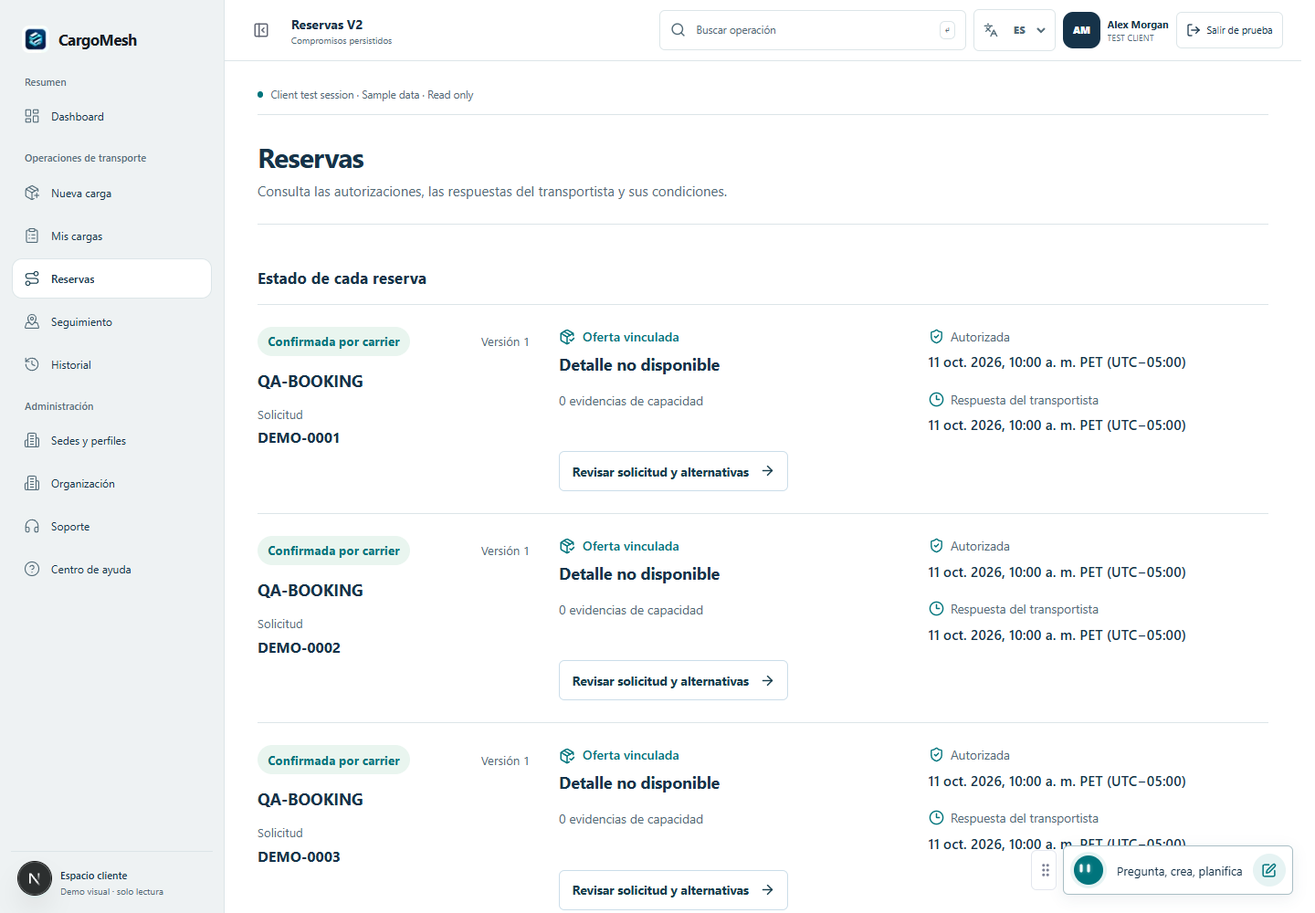
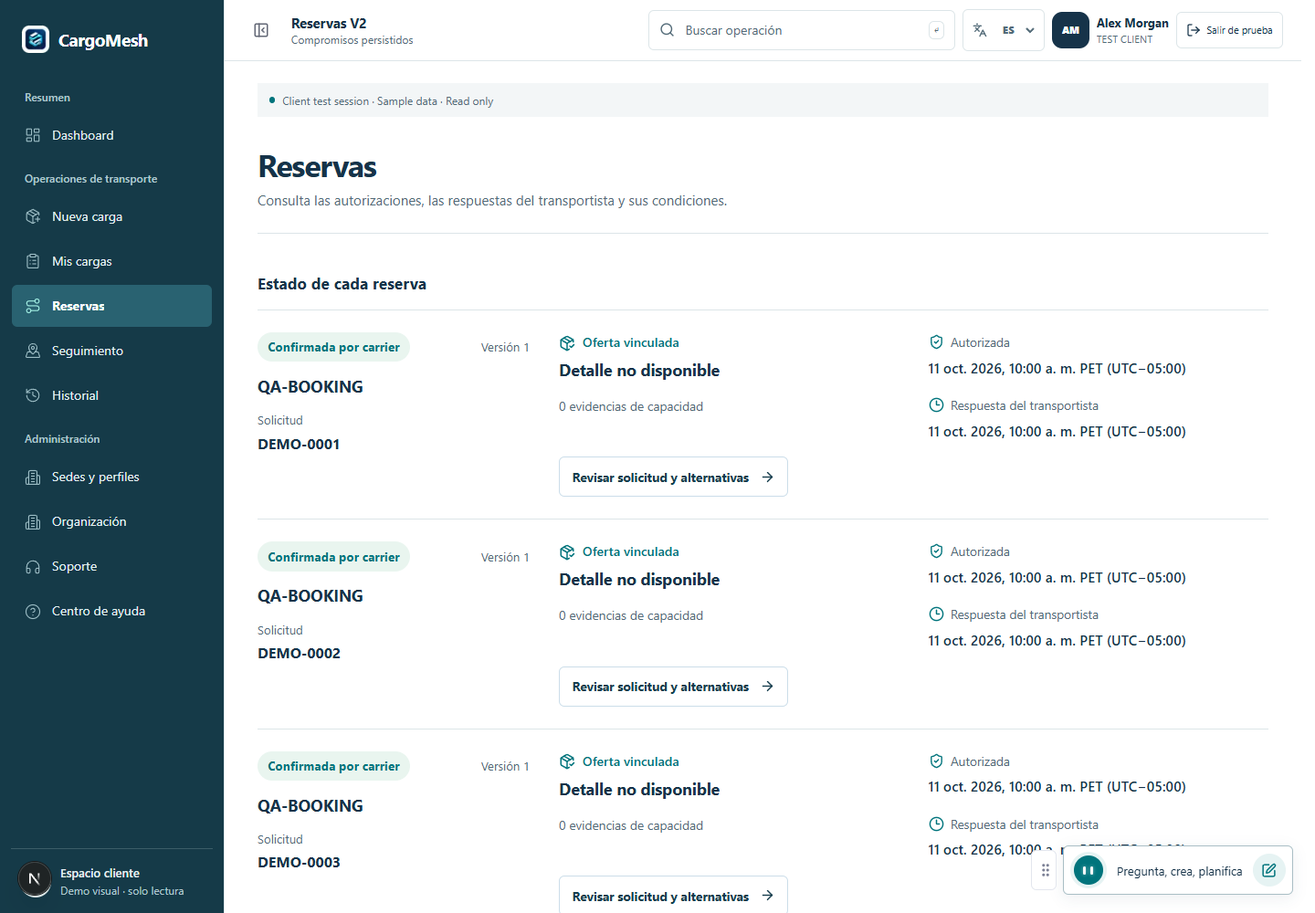
refine(client): strengthen navigation hierarchy and responsive layouts

diff --git a/cargomesh/src/features/shipper-portal/shipper-portal.module.css b/cargomesh/src/features/shipper-portal/shipper-portal.module.css
@@ -1,10 +1,10 @@
-.page { display: grid; min-width: 0; width: 100%; max-width: 100rem; gap: 1.75rem; margin: 0 auto; color: var(--cm-color-ink); }
+.page { display: grid; min-width: 0; width: 100%; max-width: 80rem; gap: 1.5rem; margin: 0 auto; color: var(--cm-color-ink); }
 .page :is(a, button, input, select, summary):focus-visible { outline: 3px solid var(--cm-color-focus); outline-offset: 3px; }
 .page :is(input, textarea) { caret-color: var(--cm-color-logistics); }
 .hero { display: flex; align-items: center; justify-content: space-between; gap: 1.25rem; padding: .25rem 0 1.5rem; border-bottom: 1px solid var(--cm-color-line); }
 .heroCopy { display: grid; min-width: 0; gap: .38rem; }
 .eyebrow { color: var(--cm-color-logistics); font-size: .72rem; font-weight: 850; letter-spacing: .12em; text-transform: uppercase; }
-.hero h1 { margin: 0; overflow-wrap: anywhere; color: var(--cm-color-heading); font-size: 1.9rem; line-height: 1.2; letter-spacing: -.035em; }
+.hero h1 { margin: 0; overflow-wrap: anywhere; color: var(--cm-color-heading); font-size: 2.125rem; font-weight: 700; line-height: 1.2; letter-spacing: -.035em; }
 .hero p { max-width: 49rem; margin: 0; color: var(--cm-color-muted); font-size: .94rem; line-height: 1.6; }
 .heroActions { display: flex; flex-wrap: wrap; gap: .6rem; }
 .primary, .secondary { display: inline-flex; min-height: 2.75rem; align-items: center; justify-content: center; gap: .48rem; border-radius: var(--cm-radius-md); padding: .62rem .95rem; font-size: .82rem; font-weight: 650; text-decoration: none; transition: background .18s ease, border-color .18s ease; }
@@ -12,7 +12,7 @@
 .primary:hover { background: var(--cm-color-primary-hover); }
 .secondary { border: 1px solid var(--cm-color-line); background: var(--cm-color-surface); color: var(--cm-color-primary); }
 .secondary:hover { border-color: var(--cm-color-line-strong); background: var(--cm-color-surface-subtle); }
-.metrics { display: grid; grid-template-columns: repeat(2, minmax(0, 1fr)); gap: 0; padding-bottom: 1.5rem; border-bottom: 1px solid var(--cm-color-line); }
+.metrics { display: grid; grid-template-columns: repeat(2, minmax(0, 1fr)); gap: 0; padding: 1.25rem; border-block: 1px solid var(--cm-color-line); background: var(--cm-color-surface-tint); }
 .metric { display: flex; align-items: flex-start; gap: .75rem; min-width: 0; padding: .25rem 1.5rem; border-left: 1px solid var(--cm-color-line); }
 .metric:first-child { padding-left: 0; border-left: 0; }
 .metricIcon { display: flex; margin-top: .4rem; color: var(--cm-color-logistics); }
@@ -23,19 +23,19 @@
 .panel { min-width: 0; }
 .panelHeader { display: flex; min-height: 3.75rem; align-items: center; justify-content: space-between; gap: .75rem; padding: .75rem 0; border-bottom: 1px solid var(--cm-color-line); }
 .panelHeader > div { display: grid; gap: .12rem; }
-.panelHeader h2, .sectionTitle { margin: 0; color: var(--cm-color-heading); font-size: 1rem; font-weight: 650; }
+.panelHeader h2, .sectionTitle { margin: 0; color: var(--cm-color-heading); font-size: 1.125rem; font-weight: 650; }
 .panelHeader p { margin: 0; color: var(--cm-color-muted); font-size: .74rem; }
 .panelHeader a { display: inline-flex; min-height: 2.75rem; align-items: center; gap: .4rem; color: var(--cm-color-logistics); font-size: .76rem; font-weight: 650; text-decoration: none; }
 .list { display: grid; }
 .row { display: grid; grid-template-columns: minmax(7rem, 1fr) minmax(10rem, 1.35fr) minmax(7rem, .8fr) auto; align-items: center; gap: 1rem; min-height: 5.5rem; padding: 1rem .25rem; border-bottom: 1px solid var(--cm-color-line); color: inherit; text-decoration: none; transition: background .16s ease; }
-.activityLabels { display: grid; grid-template-columns: 8rem minmax(0, 1fr) 5.5rem; gap: 1rem; padding: .85rem .25rem; border-bottom: 1px solid var(--cm-color-line); color: var(--cm-color-muted); font-size: .7rem; font-weight: 600; }
+.activityLabels { display: grid; grid-template-columns: 8rem minmax(0, 1fr) 5.5rem; gap: 1rem; padding: .8rem .5rem; border-bottom: 1px solid var(--cm-color-line); background: var(--cm-color-surface-subtle); color: var(--cm-color-muted); font-size: .75rem; font-weight: 600; }
 .activityLabels span:last-child { text-align: right; }
 .activityRow > .status { justify-self: end; }
 .row:hover { background: var(--cm-color-surface-tint); }
 .stack { display: grid; min-width: 0; gap: .22rem; }
-.stack strong { overflow: hidden; color: var(--cm-color-heading); font-size: .84rem; text-overflow: ellipsis; white-space: nowrap; }
-.stack span { overflow: hidden; color: var(--cm-color-muted); font-size: .78rem; text-overflow: ellipsis; white-space: nowrap; }
-.stack small { color: var(--cm-color-muted); font-size: .7rem; }
+.stack strong { overflow: hidden; color: var(--cm-color-heading); font-size: .9375rem; text-overflow: ellipsis; white-space: nowrap; }
+.stack span { overflow: hidden; color: var(--cm-color-muted); font-size: .8125rem; text-overflow: ellipsis; white-space: nowrap; }
+.stack small { color: var(--cm-color-muted); font-size: .75rem; line-height: 1.5; }
 .status { display: inline-flex; width: max-content; align-items: center; gap: .3rem; border-radius: 999px; padding: .3rem .55rem; font-size: .69rem; font-weight: 850; white-space: nowrap; }
 .status[data-tone="positive"] { background: var(--cm-color-positive-surface); color: var(--cm-color-logistics); }
 .status[data-tone="pending"] { background: var(--cm-color-warning-surface); color: var(--cm-color-warning-ink); }
@@ -52,7 +52,7 @@
 .quickCard svg:last-child { grid-column: 3; }
 .quickCard strong { color: var(--cm-color-heading); font-size: .84rem; }
 .quickCard span { grid-column: 2; color: var(--cm-color-muted); font-size: .74rem; line-height: 1.45; }
-.toolbar { display: grid; gap: .85rem; padding: 1rem 0; border-bottom: 1px solid var(--cm-color-line); }
+.toolbar { display: grid; gap: .85rem; padding: 1rem; border-block: 1px solid var(--cm-color-line); background: var(--cm-color-surface-tint); }
 .search { display: flex; min-height: 2.75rem; align-items: center; gap: .5rem; border: 1px solid var(--cm-color-line); border-radius: .65rem; padding: 0 .7rem; background: var(--cm-color-surface); color: var(--cm-color-muted); }
 .search:focus-within { border-color: var(--cm-color-logistics); outline: 2px solid var(--cm-color-logistics); outline-offset: 2px; }
 .page .search input:focus-visible, .page .sort select:focus-visible { outline: 0; }
@@ -182,7 +182,7 @@
   .summary { grid-template-columns: repeat(4, minmax(0, 1fr)); }
   .cards { grid-template-columns: minmax(0, 1fr); }
 }
-@container (min-width: 720px) { .dashboardLayout { grid-template-columns: minmax(0, 1fr) 15rem; gap: 1.5rem; } .dashboardRail { padding-left: 1.25rem; border-left: 1px solid var(--cm-color-line); } }
+@container (min-width: 900px) { .dashboardLayout { grid-template-columns: minmax(0, 1fr) 18rem; gap: 2rem; } .dashboardRail { padding-left: 1.5rem; border-left: 1px solid var(--cm-color-line); } }
 @media (min-width: 1300px) { .cards { grid-template-columns: minmax(0, 1fr); } }
 @media (max-width: 650px) {
   .offerArrival { align-items: stretch; flex-direction: column; }

diff --git a/cargomesh/src/components/app-shell.module.css b/cargomesh/src/components/app-shell.module.css
@@ -13,6 +13,22 @@
   --client-assistant-clearance: 5.5rem;
 }
 .shell:has([data-chat-open="true"]) { --client-assistant-clearance: 0rem; }
+.assistantLayer[inert] { display: none; }
+.shell[data-cm-workspace="client"] { --carrier-nav-bg: #153a48; --carrier-nav-ink: #e4f0f2; --carrier-nav-muted: #b0c8ce; }
+.shell .sidebar { border-right: 0; transition-property: transform; }
+.sidebar .brand { color: #fff; font-size: 1.2rem; letter-spacing: -.025em; }
+.navigation h2 { color: #b0c8ce; font-size: .75rem; margin-top: 1rem; margin-bottom: .65rem; }
+.navigation a { min-height: 46px; border: 0; border-radius: 6px; color: #e4f0f2; font-size: .875rem; padding-inline: 14px; }
+.navigation a > svg { color: #9cbdc5; }
+.navigation a:hover { background: #244c59; color: #fff; }
+.navigation a[aria-current="page"] { color: #fff; background: #296271; box-shadow: none; font-weight: 650; }
+.navigation a[aria-current="page"] > svg { color: #a2efe3; }
+.sidebar .workspaceIdentity { border-top-color: #3b5d68; color: #e4f0f2; }
+.sidebar .workspaceIdentity strong { font-size: .8125rem; }
+.sidebar .workspaceIdentity > div > span { color: #b0c8ce; font-size: .75rem; }
+.sidebar :is(a, button):focus-visible { outline-color: #a2efe3 !important; }
+.sidebar button { color: #e4f0f2 !important; }
+.sidebar button:hover { background: #296271 !important; }
 
 .contentColumn {
   min-width: 0;
@@ -46,7 +62,7 @@
 .context strong {
   overflow: hidden;
   color: var(--cm-color-heading);
-  font-size: 0.9rem;
+  font-size: 0.95rem;
   letter-spacing: -0.015em;
   text-overflow: ellipsis;
   white-space: nowrap;
@@ -56,7 +72,7 @@
   display: none;
   overflow: hidden;
   color: var(--cm-color-muted);
-  font-size: 0.62rem;
+  font-size: 0.75rem;
   text-overflow: ellipsis;
   white-space: nowrap;
 }
@@ -97,7 +113,7 @@
   background: transparent;
   color: var(--cm-color-ink);
   font: inherit;
-  font-size: 0.72rem;
+  font-size: 0.875rem;
 }
 
 .search input::placeholder { color: var(--cm-color-muted); }
@@ -106,8 +122,8 @@
 .avatar { display: grid; width: 2.55rem; height: 2.55rem; flex: 0 0 auto; place-items: center; border-radius: 0.7rem; background: var(--cm-color-heading); color: white; font-size: 0.66rem; font-weight: 800; }
 .userCopy { display: none; min-width: 0; }
 .userCopy strong, .userCopy span { display: block; overflow: hidden; max-width: 10rem; text-overflow: ellipsis; white-space: nowrap; }
-.userCopy strong { color: var(--cm-color-ink); font-size: 0.69rem; }
-.userCopy span { margin-top: 0.12rem; color: var(--cm-color-muted); font-size: 0.58rem; text-transform: capitalize; }
+.userCopy strong { color: var(--cm-color-ink); font-size: 0.8125rem; }
+.userCopy span { margin-top: 0.12rem; color: var(--cm-color-muted); font-size: 0.7rem; text-transform: capitalize; }
 
 .signOut button, .signOutLink {
   display: inline-flex;
@@ -128,8 +144,8 @@
 }
 
 .signOut button:hover, .signOutLink:hover { border-color: var(--cm-color-line-strong); background: var(--cm-color-selected); }
-.main { min-width: 0; min-height: calc(100dvh - 4rem); padding: 1.75rem clamp(1rem, 2.5vw, 2.75rem) calc(3rem + var(--client-assistant-clearance)); background: var(--cm-color-canvas); }
-.previewNotice { display: flex; align-items: center; gap: .5rem; margin-bottom: 1.5rem; padding: 0 0 .8rem; border-bottom: 1px solid var(--cm-color-line); color: var(--cm-color-muted); font-size: .72rem; line-height: 1.5; }
+.main { min-width: 0; min-height: calc(100dvh - 4rem); padding: 1.5rem clamp(1rem, 2.5vw, 2.75rem) calc(3rem + var(--client-assistant-clearance)); background: var(--cm-color-canvas); color: var(--cm-color-ink); }
+.previewNotice { display: flex; align-items: center; gap: .5rem; margin-bottom: 1.75rem; padding: .6rem .8rem; background: var(--cm-color-surface-subtle); color: var(--cm-color-muted); font-size: .75rem; line-height: 1.5; }
 .previewNotice::before { content: ""; width: .4rem; height: .4rem; flex: none; border-radius: 50%; background: var(--cm-color-logistics); }
 .shell ::selection { background: #d1e9e9; color: #163349; }
 .shell :is(input, textarea) { caret-color: var(--cm-color-logistics); }

diff --git a/cargomesh/src/components/app-shell.tsx b/cargomesh/src/components/app-shell.tsx
@@ -150,9 +150,9 @@ export function AppShell({ children, identity, preview=false }: { children: Reac
     <IntakeSessionProvider><div className={`${navStyles.frame} ${styles.shell}`} data-cm-workspace="client" data-collapsed={collapsed} data-open={open} data-assistant-docked={assistantDocked} data-cm-client-preview={preview?"true":undefined}>
       <a className={navStyles.skip} href="#main-content">{t("Saltar al contenido", "Skip to content")}</a>
 
-      <aside ref={sidebarRef} id={sidebarId} className={navStyles.sidebar} role={mobile && open ? "dialog" : undefined} aria-modal={mobile && open ? true : undefined} aria-labelledby={sidebarTitleId} inert={mobile && !open}>
+      <aside ref={sidebarRef} id={sidebarId} className={`${navStyles.sidebar} ${styles.sidebar}`} role={mobile && open ? "dialog" : undefined} aria-modal={mobile && open ? true : undefined} aria-labelledby={sidebarTitleId} inert={mobile && !open}>
         <div className={navStyles.brandRow}>
-          <Link className={navStyles.brand} href="/dashboard" aria-label="CargoMesh" onClick={closeNavigation}>
+          <Link className={`${navStyles.brand} ${styles.brand}`} href="/dashboard" aria-label="CargoMesh" onClick={closeNavigation}>
             <Image src="/v2-workspace/cargomesh-icon.png" width={30} height={30} sizes="30px" alt="" priority />
             <span>CargoMesh</span>
           </Link>
@@ -162,7 +162,7 @@ export function AppShell({ children, identity, preview=false }: { children: Reac
           </button>
         </div>
 
-        <nav className={navStyles.nav} aria-label={t("Menú cliente", "Shipper menu")}>
+        <nav className={`${navStyles.nav} ${styles.navigation}`} aria-label={t("Menú cliente", "Shipper menu")}>
           {navigation.map((section) => (
             <section className={navStyles.group} key={section.id} aria-labelledby={`${sidebarId}-${section.id}`}>
               <h2 id={`${sidebarId}-${section.id}`} className={navStyles.groupLabel}>{section.label}</h2>
@@ -180,7 +180,7 @@ export function AppShell({ children, identity, preview=false }: { children: Reac
           ))}
         </nav>
 
-        <div className={navStyles.identity} title={identity?.organizationName ?? "CargoMesh"}>
+        <div className={`${navStyles.identity} ${styles.workspaceIdentity}`} title={identity?.organizationName ?? "CargoMesh"}>
           <span className={navStyles.avatar} aria-hidden="true"><UserRound size={19} /></span>
           <div><strong>{t("Espacio cliente", "Shipper workspace")}</strong><span>{demo ? t("Demo visual · solo lectura", "Visual demo · read only") : identity?.organizationName ?? "CargoMesh"}</span></div>
         </div>
@@ -226,7 +226,9 @@ export function AppShell({ children, identity, preview=false }: { children: Reac
           <ContentMotion identity={pathname} className={styles.motionRegion}>{children}</ContentMotion>
         </main>
       </div>
-      <ClientAssistant onDockedChange={setAssistantDocked} />
+      <div className={styles.assistantLayer} inert={mobile && open}>
+        <ClientAssistant onDockedChange={setAssistantDocked} />
+      </div>
     </div></IntakeSessionProvider>
   );
 }

diff --git a/cargomesh/src/app/(cargomesh)/operational-page.module.css b/cargomesh/src/app/(cargomesh)/operational-page.module.css
@@ -1,6 +1,6 @@
-.page { display: grid; width: 100%; max-width: var(--page-max-wide); gap: 1.75rem; margin: 0 auto; }
+.page { display: grid; width: 100%; max-width: var(--page-max-standard); gap: 1.5rem; margin: 0 auto; }
 .header { display: flex; align-items: flex-end; justify-content: space-between; gap: 1rem; padding: .25rem 0 1.5rem; border-bottom: 1px solid var(--cm-color-line); }
-.header h1 { margin: 0 0 .4rem; color: var(--cm-color-heading); font-size: clamp(1.6rem, 3vw, 1.9rem); line-height: 1.15; }
+.header h1 { margin: 0 0 .4rem; color: var(--cm-color-heading); font-size: clamp(1.6rem, 3vw, 2.125rem); line-height: 1.15; letter-spacing: -.035em; }
 .header p { max-width: 48rem; margin: 0; color: var(--cm-color-muted); font-size: .94rem; line-height: 1.6; }
 .eyebrow { display: inline-flex; align-items: center; gap: 0.35rem; color: var(--cm-color-logistics); font-size: 0.7rem; font-weight: 800; letter-spacing: 0.1em; text-transform: uppercase; }
 .primary, .secondary { display: inline-flex; min-height: 2.75rem; flex: 0 0 auto; align-items: center; justify-content: center; gap: 0.45rem; border-radius: 0.55rem; padding: 0.55rem 0.8rem; font-size: 0.8rem; font-weight: 800; text-decoration: none; }
@@ -22,7 +22,7 @@
 .empty { display: grid; justify-items: center; gap: 0.55rem; padding: 3rem 1rem; color: var(--cm-color-muted); text-align: center; }
 .empty strong { color: var(--cm-color-heading); font-size: 0.95rem; }
 .empty p { max-width: 30rem; margin: 0; font-size: .875rem; line-height: 1.65; }
-.grid { display: grid; grid-template-columns: minmax(0,1fr); gap: 0; }
+.grid { display: grid; grid-template-columns: repeat(2,minmax(0,1fr)); gap: 0 2.5rem; }
 .info { display: grid; gap: 0.55rem; padding: 1.25rem 0; border-bottom: 1px solid var(--cm-color-line); }
 .info h2, .info p { margin: 0; }
 .info h2 { color: var(--cm-color-heading); font-size: 1rem; }
@@ -42,7 +42,7 @@
 .guideList a:focus-visible { outline: 3px solid var(--cm-color-focus); outline-offset: 2px; }
 .callout { display: flex; align-items: flex-start; gap: 0.55rem; margin: 1.25rem 0; padding: 0.8rem; background: var(--cm-color-warning-surface); color: var(--cm-color-warning-ink); font-size: 0.78rem; line-height: 1.5; border-block: 1px solid var(--cm-color-line); }
 .callout svg { flex: none; }
-@media (max-width: 700px) { .header { align-items: stretch; flex-direction: column; } .row { grid-template-columns: 1fr; } .status { justify-self: start; } }
+@media (max-width: 700px) { .header { align-items: stretch; flex-direction: column; } .grid, .row { grid-template-columns: 1fr; } .status { justify-self: start; } }
 @media (max-width: 560px) { .facts { grid-template-columns: 1fr; } }
 
 .page :is(a, button, input, select, summary):focus-visible { outline: 3px solid var(--cm-color-focus); outline-offset: 3px; }

diff --git a/cargomesh/src/app/demo/shipper/operational-page.module.css b/cargomesh/src/app/demo/shipper/operational-page.module.css
@@ -1,6 +1,6 @@
-.page { display: grid; width: 100%; max-width: var(--page-max-wide); gap: 1.75rem; margin: 0 auto; }
+.page { display: grid; width: 100%; max-width: var(--page-max-standard); gap: 1.5rem; margin: 0 auto; }
 .header { display: flex; align-items: flex-end; justify-content: space-between; gap: 1rem; padding: .25rem 0 1.5rem; border-bottom: 1px solid var(--cm-color-line); }
-.header h1 { margin: 0 0 .4rem; color: var(--cm-color-heading); font-size: clamp(1.6rem, 3vw, 1.9rem); line-height: 1.15; }
+.header h1 { margin: 0 0 .4rem; color: var(--cm-color-heading); font-size: clamp(1.6rem, 3vw, 2.125rem); line-height: 1.15; letter-spacing: -.035em; }
 .header p { max-width: 48rem; margin: 0; color: var(--cm-color-muted); font-size: .94rem; line-height: 1.6; }
 .eyebrow { display: inline-flex; align-items: center; gap: 0.35rem; color: var(--cm-color-logistics); font-size: 0.7rem; font-weight: 800; letter-spacing: 0.1em; text-transform: uppercase; }
 .primary, .secondary { display: inline-flex; min-height: 2.75rem; flex: 0 0 auto; align-items: center; justify-content: center; gap: 0.45rem; border-radius: 0.55rem; padding: 0.55rem 0.8rem; font-size: 0.8rem; font-weight: 800; text-decoration: none; }
@@ -22,7 +22,7 @@
 .empty { display: grid; justify-items: center; gap: 0.55rem; padding: 3rem 1rem; color: var(--cm-color-muted); text-align: center; }
 .empty strong { color: var(--cm-color-heading); font-size: 0.95rem; }
 .empty p { max-width: 30rem; margin: 0; font-size: .875rem; line-height: 1.65; }
-.grid { display: grid; grid-template-columns: minmax(0,1fr); gap: 0; }
+.grid { display: grid; grid-template-columns: repeat(2,minmax(0,1fr)); gap: 0 2.5rem; }
 .info { display: grid; gap: 0.55rem; padding: 1.25rem 0; border-bottom: 1px solid var(--cm-color-line); }
 .info h2, .info p { margin: 0; }
 .info h2 { color: var(--cm-color-heading); font-size: 1rem; }
@@ -42,7 +42,7 @@
 .guideList a:focus-visible { outline: 3px solid var(--cm-color-focus); outline-offset: 2px; }
 .callout { display: flex; align-items: flex-start; gap: 0.55rem; margin: 1.25rem 0; padding: 0.8rem; background: var(--cm-color-warning-surface); color: var(--cm-color-warning-ink); font-size: 0.78rem; line-height: 1.5; border-block: 1px solid var(--cm-color-line); }
 .callout svg { flex: none; }
-@media (max-width: 700px) { .header { align-items: stretch; flex-direction: column; } .row { grid-template-columns: 1fr; } .status { justify-self: start; } }
+@media (max-width: 700px) { .header { align-items: stretch; flex-direction: column; } .grid, .row { grid-template-columns: 1fr; } .status { justify-self: start; } }
 @media (max-width: 560px) { .facts { grid-template-columns: 1fr; } }
 
 .page :is(a, button, input, select, summary):focus-visible { outline: 3px solid var(--cm-color-focus); outline-offset: 3px; }

diff --git a/cargomesh/src/features/v2-intake/v2-intake-prototype.module.css b/cargomesh/src/features/v2-intake/v2-intake-prototype.module.css
@@ -274,7 +274,7 @@
 :global([data-cm-workspace="client"]) .hero { padding: .25rem 0 1.5rem; border-bottom: 1px solid var(--cm-color-line); }
 :global([data-cm-workspace="client"]) .hero::after { display: none; }
 :global([data-cm-workspace="client"]) .heroIcon { width: 2.2rem; height: 2.2rem; color: var(--cm-color-logistics); background: transparent; box-shadow: none; }
-:global([data-cm-workspace="client"]) .hero :is(h1, h2) { font-size: 1.9rem; letter-spacing: -.035em; }
+:global([data-cm-workspace="client"]) .hero :is(h1, h2) { font-size: 2.125rem; letter-spacing: -.035em; }
 :global([data-cm-workspace="client"]) :is(.hero p, .cardHeader p, .formSectionHeader p) { max-width: 65ch; }
 :global([data-cm-workspace="client"]) .stepper { gap: 0; padding: 0; border: 0; border-bottom: 1px solid var(--cm-color-line); border-radius: 0; background: transparent; box-shadow: none; }
 :global([data-cm-workspace="client"]) .stepButton { border: 0; border-bottom: 2px solid transparent; border-radius: 0; box-shadow: none; }
@@ -298,6 +298,9 @@
 :global([data-cm-workspace="client"]) .footer { padding-inline: 0; }
 :global([data-cm-workspace="client"]) .integrationArea { padding-inline: 0; border-top: 1px solid var(--cm-color-line); }
 :global([data-cm-workspace="client"]) :is(.assistantBridge, .optionsState, .optionsError) { border: 0; border-block: 1px solid var(--cm-color-line); border-radius: 0; background: var(--cm-color-surface-tint); box-shadow: none; }
+:global([data-cm-workspace="client"]) :is(.notice span, .assistantBridge span, .optionsState span, .optionsError span, .optionsError small) { font-size: .75rem; line-height: 1.6; }
+:global([data-cm-workspace="client"]) :is(.notice strong, .assistantBridge strong, .optionsState strong, .optionsError strong) { font-size: .8125rem; }
+:global([data-cm-workspace="client"]) .stepper { background: var(--cm-color-surface-tint); }
 @container intake (max-width: 680px) { :global([data-cm-workspace="client"]) .hero :is(h1, h2) { font-size: 1.6rem; } }
 @media (prefers-reduced-motion: reduce) { :global([data-cm-workspace="client"]) .equipmentCard { transition: none; } }
 @container intake (max-width: 680px) {

diff --git a/cargomesh/src/features/shipper-portal/tracking-experience.module.css b/cargomesh/src/features/shipper-portal/tracking-experience.module.css
@@ -1,4 +1,4 @@
-.page { display:grid; width:100%; max-width:100rem; min-width:0; gap:1.1rem; margin:0 auto; color:var(--cm-color-ink); }
+.page { display:grid; width:100%; max-width:80rem; min-width:0; gap:1.5rem; margin:0 auto; color:var(--cm-color-ink); }
 .page * { box-sizing:border-box; }
 .page :is(button,input,select,a,summary,[tabindex]):focus-visible { outline:3px solid var(--cm-color-focus); outline-offset:3px; }
 .page button, .page input, .page select { font:inherit; }
@@ -11,7 +11,7 @@
 .panelHeading { display:flex; align-items:center; justify-content:space-between; flex-wrap:wrap; gap:.7rem; border-bottom:1px solid var(--cm-color-line); padding: 1rem 0; }
 .panelHeading h2 { scroll-margin-block-start:6rem; }
 .listHeader, .detailHeader { display:flex; align-items:center; justify-content:space-between; flex-wrap:wrap; gap:1rem; }
-.listHeader h1 { font-size:clamp(1.6rem,3vw,1.9rem); }
+.listHeader h1 { font-size:clamp(1.6rem,3vw,2.125rem); }
 .listHeader p, .detailHeader p { color:var(--cm-color-muted); font-size:.85rem; margin-top:.45rem; line-height:1.5; }
 .detailHeader h1 { display:flex; align-items:center; flex-wrap:wrap; gap:.6rem; font-size:clamp(1.6rem,2.7vw,1.9rem); line-height:1.2; }
 .detailHeader h1 span { overflow-wrap:anywhere; }

diff --git a/cargomesh/src/features/shipper-portal/client-settings.module.css b/cargomesh/src/features/shipper-portal/client-settings.module.css
@@ -1,7 +1,7 @@
-.page { display:grid; min-width:0; width:100%; max-width:100rem; margin:auto; gap:1.75rem; color:var(--cm-color-ink); }
+.page { display:grid; min-width:0; width:100%; max-width:80rem; margin:auto; gap:1.5rem; color:var(--cm-color-ink); }
 .header { display:flex; flex-wrap:wrap; justify-content:space-between; align-items:flex-start; gap:1rem; }
 .page > .header { padding:.25rem 0 1.5rem; border-bottom:1px solid var(--cm-color-line); }
-.header h1 { margin:0 0 .4rem; font-size:clamp(1.6rem,3vw,1.9rem); line-height:1.2; letter-spacing:-.035em; }
+.header h1 { margin:0 0 .4rem; font-size:clamp(1.6rem,3vw,2.125rem); line-height:1.2; letter-spacing:-.035em; }
 .header p { color:var(--cm-color-muted); margin:.5rem 0; max-width:65ch; line-height:1.6; }
 .label { display:block; margin-bottom:.6rem; font-size:.75rem; color:var(--cm-color-muted); }
 .panel { min-width:0; padding:1.25rem 0; border-bottom:1px solid var(--cm-color-line); }

diff --git a/cargomesh/src/features/shipper-portal/operations.module.css b/cargomesh/src/features/shipper-portal/operations.module.css
@@ -12,7 +12,7 @@
 .readNotice button:disabled { opacity: .6; cursor: wait; }
 .collectionNotice { padding: .8rem 1rem; color: var(--cm-color-muted); border-bottom: 1px solid var(--cm-color-line); background: var(--cm-color-surface-tint); }
 .pagination { display: flex; flex-wrap: wrap; gap: .5rem; margin-top: .7rem; }
-.selected { background: var(--cm-color-positive-surface); box-shadow: inset 3px 0 var(--cm-color-logistics); }
+.selected { background: var(--cm-color-positive-surface); }
 .reset { min-height: 2.5rem; padding: .4rem .7rem; border: 1px solid var(--cm-color-line); border-radius: .6rem; color: var(--cm-color-logistics); background: var(--cm-color-surface); font: inherit; font-size: .8rem; cursor: pointer; }
 .facts { display: grid; grid-template-columns: repeat(2, minmax(0, 1fr)); gap: .8rem; margin: 0; }
 .factsDisclosure summary { cursor: pointer; color: var(--cm-color-heading); font-weight: 750; }

diff --git a/cargomesh/src/features/v2-intake/components/facility-picker.module.css b/cargomesh/src/features/v2-intake/components/facility-picker.module.css
@@ -43,4 +43,8 @@
 :global([data-cm-workspace="client"]) .option:hover { transform: none; background: var(--cm-color-surface-tint); }
 :global([data-cm-workspace="client"]) .option[data-selected="true"] { background: var(--cm-color-selected); }
 :global([data-cm-workspace="client"]) .error { border-left: 0; }
+:global([data-cm-workspace="client"]) .header h3 { font-size: 1.125rem; }
+:global([data-cm-workspace="client"]) .optionCopy strong { font-size: .875rem; }
+:global([data-cm-workspace="client"]) :is(.optionCopy small, .code, .contractHint, .error) { font-size: .75rem; line-height: 1.5; }
+:global([data-cm-workspace="client"]) .geo { font-size: .7rem; }
 @media (prefers-reduced-motion: reduce) { :global([data-cm-workspace="client"]) .option { transition: none; } }

diff --git a/docs/v2-amazon/delivery/CLIENT_PRESENTATION_REVIEW_2026_10_22.md b/docs/v2-amazon/delivery/CLIENT_PRESENTATION_REVIEW_2026_10_22.md
@@ -74,3 +74,24 @@ No authorized Supabase V2 session was available. Connected organization/facility
 This is an expert browser/visual inspection plus an independent screenshot/source review, not observed research with a separate end user. It does not measure screen-reader behavior, Core Web Vitals or every supported browser. Main's newer functional components were preserved; the integrator should validate their authorized connected scenario before accepting the full HAC-53 DoD.
 
 No merge or deployment is part of this delivery.
+
+## Follow-up refinement after visual feedback
+
+The user requested another Client-wide visual pass after the first published increment. This follow-up keeps the same branch and PR. It strengthens the existing petroleum/teal palette with a dark Client navigation rail and high-contrast active state, raises operational typography, groups filters and counts into flat bands, widens the dashboard assistant rail, and aligns page widths/header scales. Support uses two open columns on desktop. Facility names and diagnostic copy are more readable. No commercial behavior or data changed.
+
+A mobile navigation defect found during this pass is fixed: the mounted assistant becomes hidden and inert while the menu is open. Its state is retained. The menu's visibility no longer transitions through a hidden focus target; the existing focus and Escape handlers are preserved.
+
+Current follow-up evidence: 25 PNGs in `C:/Users/PISFIL/Documents/Codex/outputs/client-refinement-20261022/` (12 route tops at both sizes plus the open mobile menu). Dashboard, reservations and tracking copies below are refreshed; [mobile navigation](../evidence/hac53-client-presentation/navigation-mobile.png) is added. The first-pass Nova capture remains representative because this follow-up does not change its panel styling.
+
+Observed assert-based browser checks:
+- Open mobile navigation: assistant layer is inert and display:none; focus lands on Close.
+- Escape: focus returns to Open menu; unsent quick-composer text remains unchanged.
+- Collapsed navigation at800px: existing collapse handler works, reservations remains visible, document width stays800px.
+- Navigation contrast: normal text10.43:1, group labels6.93:1, active row6.82:1. This is a targeted check, not an overall accessibility certificate.
+- No warnings/errors in the inspected reservation console.
+
+Types, architecture709/206 and production build were rerun successfully for the follow-up code. The final CSS transition-property correction was confirmed in the browser; it changes no imports or build configuration. The241 business/preview tests above belong to the first published increment; they were not repeated for this presentation-only follow-up. A single new detector scan retained four inherited intake border rules with Client overrides, and no second scan was run.
+
+Local follow-up logs and assertions are in `.planning/2026-10-22-client-refinement/`. The same connected-data limitations apply. This iteration remains separate from accepting the full HAC-53 workflow.
+
+The independent full follow-up review inspected all25 new captures and representative source, returning **`disposition: ship`** with no material fixes. Final browser assertions were repeated after removing a temporary focus workaround: the original focus handler works with the corrected visibility styling, and assistant text remains intact.
